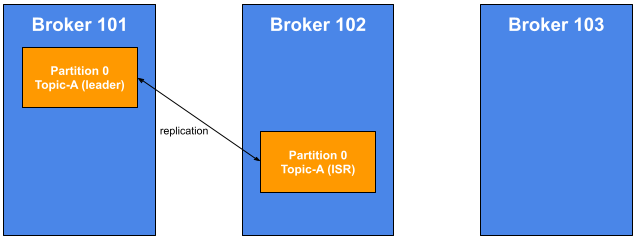
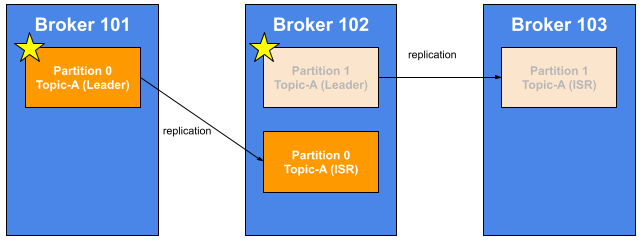
Update Post “learning-kafka-theory-3-topic-replication/index”

Changed region(s): [[0.0, 0.0289, 1.0, 0.9835]]

diff --git a/content/post/learning-kafka-theory-3-topic-replication/index.md b/content/post/learning-kafka-theory-3-topic-replication/index.md
@@ -104,3 +104,9 @@ Let's have a look at the previous example.
 ![](kafka-theory_topic_replication-3.png "Diagram-3: Example: Topic-A with 2 partitions and replication factor of 2")
 
 This time, for Partition 0, Broker 101 is going to be the leader, while Broker 102 is going to be a replica, or ISR.
+
+As you can see, the replication goes from Partition 0 on Broker 101 to Partition 0 on Broker 102.
+
+Similarly, for Partition 1, there's going to be Broker 102 that will be the leader for Partition 1, and then the replication will happen all the way to Partition 1 on Broker 103.
+
+So that's the important thing.
